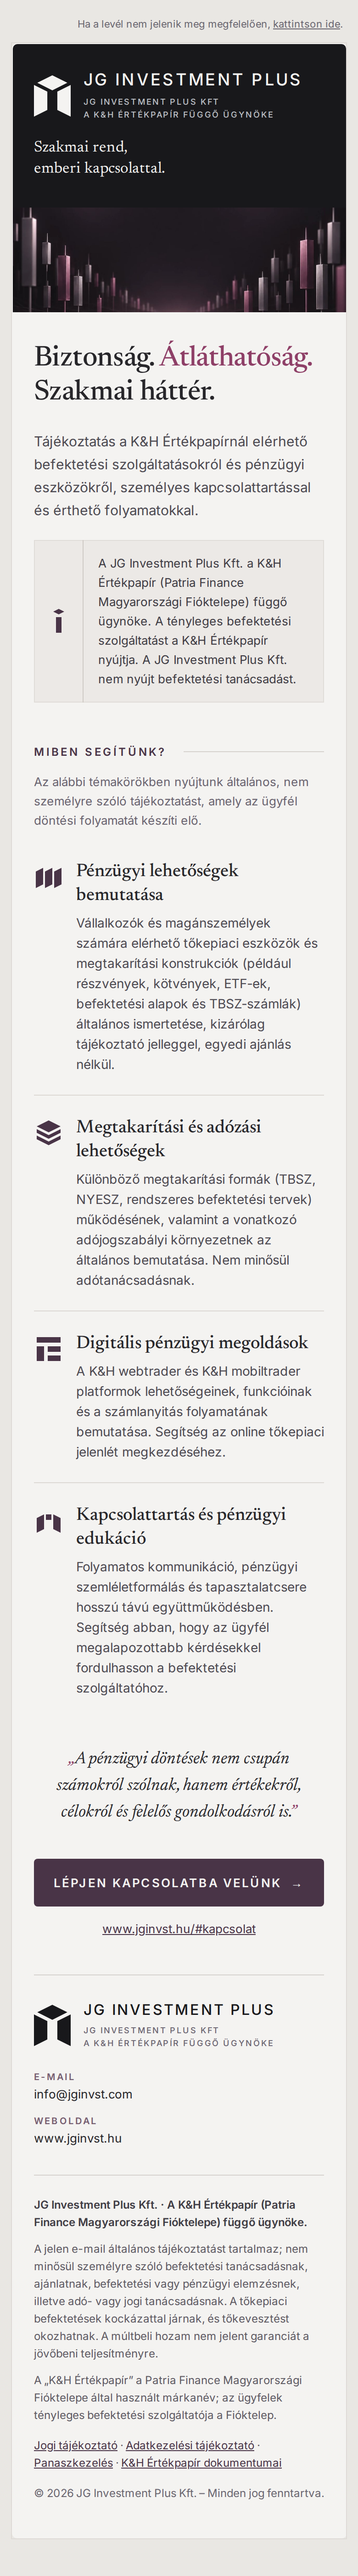
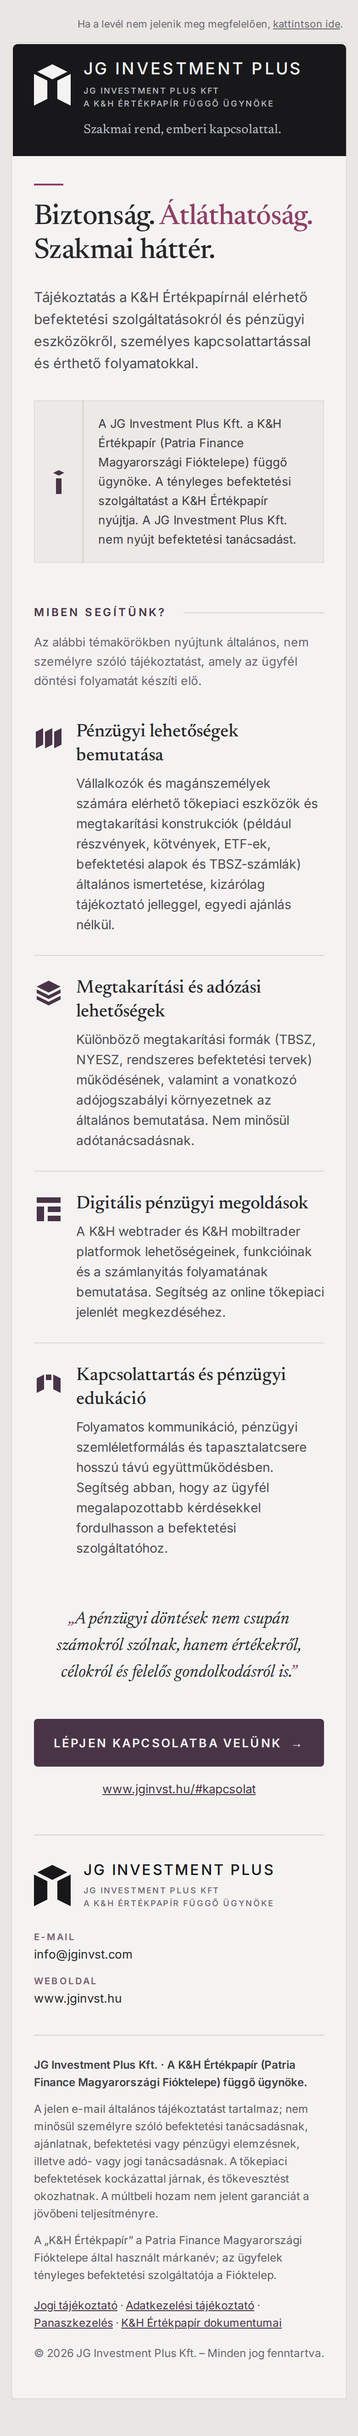
fix(email): simplify header and remove trading hero
Alex's review rejected the candlestick hero as too trader-like for the JG
brand. The hero is now typographic only: a short Signal Berry rule, the
approved headline and intro on Porcelain, with the role notice directly
below. The header is more compact (24 px padding, 18 px on mobile) and the
tagline sits on one line under the wordmark on mobile, so the headline now
starts at 218 px instead of 372 px in a 390 px viewport.

The email-only hero JPGs and their rendering code are removed; the source
src/assets/hero-market-corridor.webp is untouched (the website still uses
it). check-email.mjs now fails if a trading hero asset reappears.

Claude-Session: https://claude.ai/code/session_01LVmGb4xvyEXar82wYXxNQR

diff --git a/emails/jg-introduction-v2.html b/emails/jg-introduction-v2.html
@@ -42,10 +42,12 @@
     .px { padding-left: 24px !important; padding-right: 24px !important; }
     .stack { display: block !important; width: 100% !important; box-sizing: border-box; }
     .hide-m { display: none !important; width: 0 !important; max-height: 0 !important; overflow: hidden !important; }
-    .show-m { display: block !important; max-height: none !important; overflow: visible !important; }
-    .head-tag { border-left: 0 !important; padding: 18px 0 0 0 !important; }
-    .hero-text { padding: 32px 24px 0 24px !important; }
-    .h1 { font-size: 31px !important; line-height: 37px !important; }
+    .head { padding-top: 18px !important; padding-bottom: 18px !important; }
+    .head-tag { border-left: 0 !important; padding: 12px 0 0 54px !important; }
+    .head-tag-text { font-size: 14px !important; line-height: 20px !important; color: #BEC1C7 !important; }
+    .hero { padding-top: 30px !important; }
+    .h1 { font-size: 31px !important; line-height: 37px !important; margin-top: 16px !important; }
+    .hero-intro { padding-right: 0 !important; font-size: 15px !important; line-height: 24px !important; }
     .icon-col { width: 46px !important; }
     .quote-rule { display: none !important; }
     .quote-text { padding: 0 !important; font-size: 19px !important; line-height: 29px !important; }
@@ -82,9 +84,9 @@
     <td style="background-color:#F4F3F1; border:1px solid #DEDAD6; border-radius:6px; overflow:hidden;">
     <table role="presentation" width="100%" cellpadding="0" cellspacing="0" border="0">
 
-      <!-- ============ HEADER (Carbon) ============ -->
+      <!-- ============ HEADER (Carbon) — kompakt ============ -->
       <tr>
-        <td class="px" bgcolor="#18181B" style="background-color:#18181B; padding:30px 40px; border-radius:5px 5px 0 0;">
+        <td class="px head" bgcolor="#18181B" style="background-color:#18181B; padding:24px 40px; border-radius:5px 5px 0 0;">
           <table role="presentation" width="100%" cellpadding="0" cellspacing="0" border="0">
             <tr>
               <td class="stack" valign="middle" style="vertical-align:middle;">
@@ -101,45 +103,30 @@
                   </tr>
                 </table>
               </td>
-              <td class="stack head-tag" valign="middle" width="190" style="width:190px; vertical-align:middle; border-left:1px solid #45434B; padding-left:26px;">
-                <div class="serif" style="font-family:Newsreader, Georgia, 'Times New Roman', serif; font-size:17px; line-height:23px; color:#F4F3F1;">Szakmai rend,<br>emberi kapcsolattal.</div>
+              <td class="stack head-tag" valign="middle" width="180" style="width:180px; vertical-align:middle; border-left:1px solid #45434B; padding-left:24px;">
+                <div class="serif head-tag-text" style="font-family:Newsreader, Georgia, 'Times New Roman', serif; font-size:16px; line-height:22px; color:#F4F3F1;">Szakmai rend,<br class="hide-m"> emberi kapcsolattal.</div>
               </td>
             </tr>
           </table>
         </td>
       </tr>
 
-      <!-- ============ HERO — mobil sáv (asztali nézetben rejtett) ============ -->
-      <!--[if !mso]><!-->
+      <!-- ============ HERO — tipográfiai, kép nélkül ============ -->
       <tr>
-        <td style="font-size:0; line-height:0;">
-          <div class="show-m" style="display:none; max-height:0; overflow:hidden; mso-hide:all;">
-            <img src="https://www.jginvst.hu/email/jg-email-hero-mobile.jpg" width="640" height="200" alt="" style="display:block; width:100%; max-width:640px; height:auto; border:0; background-color:#18181B;">
-          </div>
-        </td>
-      </tr>
-      <!--<![endif]-->
-
-      <!-- ============ HERO ============ -->
-      <tr>
-        <td>
-          <table role="presentation" width="100%" cellpadding="0" cellspacing="0" border="0">
+        <td class="px hero" style="padding:44px 40px 0 40px;">
+          <table role="presentation" cellpadding="0" cellspacing="0" border="0">
             <tr>
-              <td class="stack hero-text" valign="top" style="vertical-align:top; padding:46px 0 0 40px;">
-                <h1 class="h1 serif" style="margin:0; font-family:Newsreader, Georgia, 'Times New Roman', serif; font-size:36px; line-height:42px; font-weight:500; letter-spacing:-0.01em; color:#27262A; mso-line-height-rule:exactly;">Biztonság. <span style="color:#8E3F67;">Átláthatóság.</span><br>Szakmai háttér.</h1>
-                <p style="margin:22px 0 0 0; font-family:Inter, Arial, Helvetica, sans-serif; font-size:15px; line-height:25px; color:#4D4A52;">Tájékoztatás a K&amp;H Értékpapírnál elérhető befektetési szolgáltatásokról és pénzügyi eszközökről, személyes kapcsolattartással és érthető folyamatokkal.</p>
-              </td>
-              <td class="hide-m" valign="top" width="200" style="width:200px; vertical-align:top; font-size:0; line-height:0;">
-                <img src="https://www.jginvst.hu/email/jg-email-hero.jpg" width="200" height="300" alt="" style="display:block; width:200px; height:300px; border:0;">
-              </td>
+              <td width="32" height="2" bgcolor="#8E3F67" style="width:32px; height:2px; background-color:#8E3F67; font-size:0; line-height:0;">&nbsp;</td>
             </tr>
           </table>
+          <h1 class="h1 serif" style="margin:20px 0 0 0; font-family:Newsreader, Georgia, 'Times New Roman', serif; font-size:40px; line-height:46px; font-weight:500; letter-spacing:-0.01em; color:#27262A; mso-line-height-rule:exactly;">Biztonság. <span style="color:#8E3F67;">Átláthatóság.</span><br>Szakmai háttér.</h1>
+          <p class="hero-intro" style="margin:20px 0 0 0; padding-right:90px; font-family:Inter, Arial, Helvetica, sans-serif; font-size:16px; line-height:26px; color:#4D4A52;">Tájékoztatás a K&amp;H Értékpapírnál elérhető befektetési szolgáltatásokról és pénzügyi eszközökről, személyes kapcsolattartással és érthető folyamatokkal.</p>
         </td>
       </tr>
 
       <!-- ============ STATUS NOTICE — forrás: statusNotice.body ============ -->
       <tr>
-        <td class="px" style="padding:20px 40px 0 40px;">
+        <td class="px" style="padding:28px 40px 0 40px;">
           <table role="presentation" width="100%" cellpadding="0" cellspacing="0" border="0" bgcolor="#ECE9E6" style="background-color:#ECE9E6; border:1px solid #E0DCD8; border-radius:4px;">
             <tr>
               <td class="notice-icon" width="70" align="center" valign="middle" style="width:70px; vertical-align:middle; padding:18px 0;">

diff --git a/public/email-preview/jg-introduction-v2.html b/public/email-preview/jg-introduction-v2.html
@@ -44,10 +44,12 @@
     .px { padding-left: 24px !important; padding-right: 24px !important; }
     .stack { display: block !important; width: 100% !important; box-sizing: border-box; }
     .hide-m { display: none !important; width: 0 !important; max-height: 0 !important; overflow: hidden !important; }
-    .show-m { display: block !important; max-height: none !important; overflow: visible !important; }
-    .head-tag { border-left: 0 !important; padding: 18px 0 0 0 !important; }
-    .hero-text { padding: 32px 24px 0 24px !important; }
-    .h1 { font-size: 31px !important; line-height: 37px !important; }
+    .head { padding-top: 18px !important; padding-bottom: 18px !important; }
+    .head-tag { border-left: 0 !important; padding: 12px 0 0 54px !important; }
+    .head-tag-text { font-size: 14px !important; line-height: 20px !important; color: #BEC1C7 !important; }
+    .hero { padding-top: 30px !important; }
+    .h1 { font-size: 31px !important; line-height: 37px !important; margin-top: 16px !important; }
+    .hero-intro { padding-right: 0 !important; font-size: 15px !important; line-height: 24px !important; }
     .icon-col { width: 46px !important; }
     .quote-rule { display: none !important; }
     .quote-text { padding: 0 !important; font-size: 19px !important; line-height: 29px !important; }
@@ -84,9 +86,9 @@
     <td style="background-color:#F4F3F1; border:1px solid #DEDAD6; border-radius:6px; overflow:hidden;">
     <table role="presentation" width="100%" cellpadding="0" cellspacing="0" border="0">
 
-      <!-- ============ HEADER (Carbon) ============ -->
+      <!-- ============ HEADER (Carbon) — kompakt ============ -->
       <tr>
-        <td class="px" bgcolor="#18181B" style="background-color:#18181B; padding:30px 40px; border-radius:5px 5px 0 0;">
+        <td class="px head" bgcolor="#18181B" style="background-color:#18181B; padding:24px 40px; border-radius:5px 5px 0 0;">
           <table role="presentation" width="100%" cellpadding="0" cellspacing="0" border="0">
             <tr>
               <td class="stack" valign="middle" style="vertical-align:middle;">
@@ -103,45 +105,30 @@
                   </tr>
                 </table>
               </td>
-              <td class="stack head-tag" valign="middle" width="190" style="width:190px; vertical-align:middle; border-left:1px solid #45434B; padding-left:26px;">
-                <div class="serif" style="font-family:Newsreader, Georgia, 'Times New Roman', serif; font-size:17px; line-height:23px; color:#F4F3F1;">Szakmai rend,<br>emberi kapcsolattal.</div>
+              <td class="stack head-tag" valign="middle" width="180" style="width:180px; vertical-align:middle; border-left:1px solid #45434B; padding-left:24px;">
+                <div class="serif head-tag-text" style="font-family:Newsreader, Georgia, 'Times New Roman', serif; font-size:16px; line-height:22px; color:#F4F3F1;">Szakmai rend,<br class="hide-m"> emberi kapcsolattal.</div>
               </td>
             </tr>
           </table>
         </td>
       </tr>
 
-      <!-- ============ HERO — mobil sáv (asztali nézetben rejtett) ============ -->
-      <!--[if !mso]><!-->
+      <!-- ============ HERO — tipográfiai, kép nélkül ============ -->
       <tr>
-        <td style="font-size:0; line-height:0;">
-          <div class="show-m" style="display:none; max-height:0; overflow:hidden; mso-hide:all;">
-            <img src="/email/jg-email-hero-mobile.jpg" width="640" height="200" alt="" style="display:block; width:100%; max-width:640px; height:auto; border:0; background-color:#18181B;">
-          </div>
-        </td>
-      </tr>
-      <!--<![endif]-->
-
-      <!-- ============ HERO ============ -->
-      <tr>
-        <td>
-          <table role="presentation" width="100%" cellpadding="0" cellspacing="0" border="0">
+        <td class="px hero" style="padding:44px 40px 0 40px;">
+          <table role="presentation" cellpadding="0" cellspacing="0" border="0">
             <tr>
-              <td class="stack hero-text" valign="top" style="vertical-align:top; padding:46px 0 0 40px;">
-                <h1 class="h1 serif" style="margin:0; font-family:Newsreader, Georgia, 'Times New Roman', serif; font-size:36px; line-height:42px; font-weight:500; letter-spacing:-0.01em; color:#27262A; mso-line-height-rule:exactly;">Biztonság. <span style="color:#8E3F67;">Átláthatóság.</span><br>Szakmai háttér.</h1>
-                <p style="margin:22px 0 0 0; font-family:Inter, Arial, Helvetica, sans-serif; font-size:15px; line-height:25px; color:#4D4A52;">Tájékoztatás a K&amp;H Értékpapírnál elérhető befektetési szolgáltatásokról és pénzügyi eszközökről, személyes kapcsolattartással és érthető folyamatokkal.</p>
-              </td>
-              <td class="hide-m" valign="top" width="200" style="width:200px; vertical-align:top; font-size:0; line-height:0;">
-                <img src="/email/jg-email-hero.jpg" width="200" height="300" alt="" style="display:block; width:200px; height:300px; border:0;">
-              </td>
+              <td width="32" height="2" bgcolor="#8E3F67" style="width:32px; height:2px; background-color:#8E3F67; font-size:0; line-height:0;">&nbsp;</td>
             </tr>
           </table>
+          <h1 class="h1 serif" style="margin:20px 0 0 0; font-family:Newsreader, Georgia, 'Times New Roman', serif; font-size:40px; line-height:46px; font-weight:500; letter-spacing:-0.01em; color:#27262A; mso-line-height-rule:exactly;">Biztonság. <span style="color:#8E3F67;">Átláthatóság.</span><br>Szakmai háttér.</h1>
+          <p class="hero-intro" style="margin:20px 0 0 0; padding-right:90px; font-family:Inter, Arial, Helvetica, sans-serif; font-size:16px; line-height:26px; color:#4D4A52;">Tájékoztatás a K&amp;H Értékpapírnál elérhető befektetési szolgáltatásokról és pénzügyi eszközökről, személyes kapcsolattartással és érthető folyamatokkal.</p>
         </td>
       </tr>
 
       <!-- ============ STATUS NOTICE — forrás: statusNotice.body ============ -->
       <tr>
-        <td class="px" style="padding:20px 40px 0 40px;">
+        <td class="px" style="padding:28px 40px 0 40px;">
           <table role="presentation" width="100%" cellpadding="0" cellspacing="0" border="0" bgcolor="#ECE9E6" style="background-color:#ECE9E6; border:1px solid #E0DCD8; border-radius:4px;">
             <tr>
               <td class="notice-icon" width="70" align="center" valign="middle" style="width:70px; vertical-align:middle; padding:18px 0;">

diff --git a/docs/email/jg-email-v2-spec.md b/docs/email/jg-email-v2-spec.md
@@ -9,7 +9,7 @@ Branch: `feature/jg-email-template-v2` · Státusz: **COMPLIANCE REVIEW REQUIRED
 | Vizuális irány | Alex által csatolt e-mail screenshot (art direction; **nem** logó- és nem tartalmi forrás) |
 | Logó | JG Logo System v1.0: `src/components/Logo.tsx`, `public/brand/jg-mark*.svg`, `docs/brand/logo-system-v1.md` |
 | Tartalom / compliance | `src/content/homepage.ts` |
-| Hero kép | `src/assets/hero-market-corridor.webp` (csak olvasva, módosítatlan) |
+| Hero kép | **Nincs.** A candlestick hero-képet (`hero-market-corridor.webp`-ből) Alex review-ja elutasította: túl „traderes”, ellentétes a JG márkairánnyal. A hero tipográfiai. |
 
 A screenshot hibás emblémája **nincs** felhasználva: se asset, se trace, se formai referencia.
 
@@ -29,9 +29,8 @@ A screenshot hibás emblémája **nincs** felhasználva: se asset, se trace, se 
 | Szélesség | 640 px konténer, középre; mobilon 100% |
 | Külső háttér | `#E9E7E3` (meleg, a Porcelain-nél kissé sötétebb); konténer Porcelain `#F4F3F1` |
 | View-in-browser | 11 px, jobbra zárt, `{{VIEW_ONLINE_URL}}` |
-| Fejléc | Carbon `#18181B`; bal: jel + wordmark + `hero.eyebrowLines`; jobb: hajszálvonal + „Szakmai rend, emberi kapcsolattal.” (Newsreader) |
-| Hero | Newsreader 36/42 főcím, „Átláthatóság.” Signal Berry `#8E3F67` (mint a weboldalon); intro Inter 15/25; jobb oldalt 200×300 px hero-kép, Porcelainbe olvadó széllel |
-| Mobil hero | A jobb oldali kép rejtett; helyette 640×200-as sötét sáv a fejléc alatt (`jg-email-hero-mobile.jpg`) |
+| Fejléc | Kompakt (24 px függőleges padding, mobilon 18 px). Carbon `#18181B`; bal: jel + wordmark + `hero.eyebrowLines`; jobb: hajszálvonal + „Szakmai rend, emberi kapcsolattal.” (Newsreader 16 px). Mobilon a tagline egy sorban, 14 px, Cool Silver színnel a wordmark alá igazítva. |
+| Hero | Kép nélküli, tipográfiai: 32×2 px-es Signal Berry jelzővonal (a weboldal lábléc-osztójának mintájára), Newsreader 40/46 főcím (mobilon 31/37), „Átláthatóság.” Signal Berry `#8E3F67`; intro Inter 16/26 (mobilon 15/24), asztali nézetben 90 px jobb oldali térközzel a sorhossz miatt |
 | Státuszközlés | `#ECE9E6` doboz, saját „i” ikon (rombusz + pillér), függőleges elválasztó, `statusNotice.body` szó szerint |
 | Miben segítünk? | Aubergine tracked címke + hajszálvonal, `services.lead`, majd 4 kompakt sor: 32 px ikon, Newsreader 20 px cím, Inter 14/22 szöveg |
 | Idézet | `about.quote`, Newsreader italic 21/31, Signal Berry „ ” (mint az About szakaszban), két oldalt hajszálvonal |
@@ -77,7 +76,6 @@ SVG-forrás: `emails/src/icons/`; e-mailben: `public/email/icons/*.png` (64×64,
 ## 7. Ismert korlátok
 
 - Gmail mobilalkalmazásban nem Google-fiókkal (IMAP/„GANGA”) a media query-k nem futnak: ott az asztali elrendezés jelenik meg.
-- A mobil hero-sávot a media query kapcsolja be; media query nélküli kliensben nem jelenik meg (az asztali hero kép viszont igen).
 - A screenshotok Linux Chromiumban készültek; a Georgia nincs telepítve, ezért a fallback screenshot Liberation Serifet mutat. A Georgia szélesebb, így asztali nézetben a főcím első sora két sorra törhet. Ez rendezett tördelés, nem overflow.
 - Valódi kliensteszt (Gmail web/iOS/Android, Outlook desktop, Apple Mail) még nem történt; ehhez élő asset-URL kell.
 

diff --git a/emails/README.md b/emails/README.md
@@ -19,7 +19,7 @@ vagy JavaScript-függősége. A weboldal UI-ját nem érinti.
 | `scripts/render-assets.mjs` | PNG/JPG-k generálása a `public/email/` mappába |
 | `scripts/build-preview.mjs` | Review-előnézet + screenshotok (`docs/email/screenshots/`) |
 | `scripts/check-email.mjs` | QA: approved copy, linkek, képek, tiltott elemek |
-| `../public/email/` | E-mail képek (logó, hero, ikonok) |
+| `../public/email/` | E-mail képek (logó, ikonok; hero-kép nincs) |
 | `../docs/email/jg-email-v2-spec.md` | Részletes specifikáció és döntések |
 
 ## URL-ek (LOCKED)
